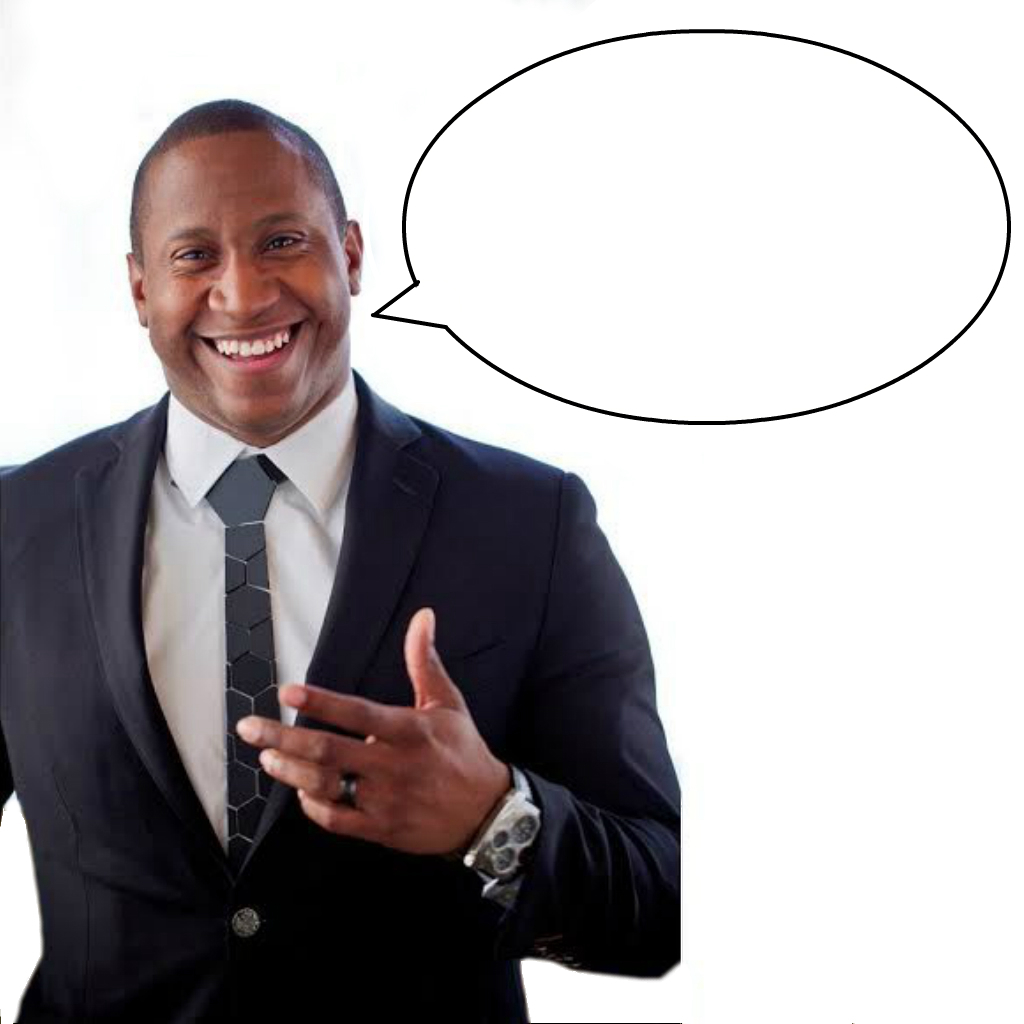
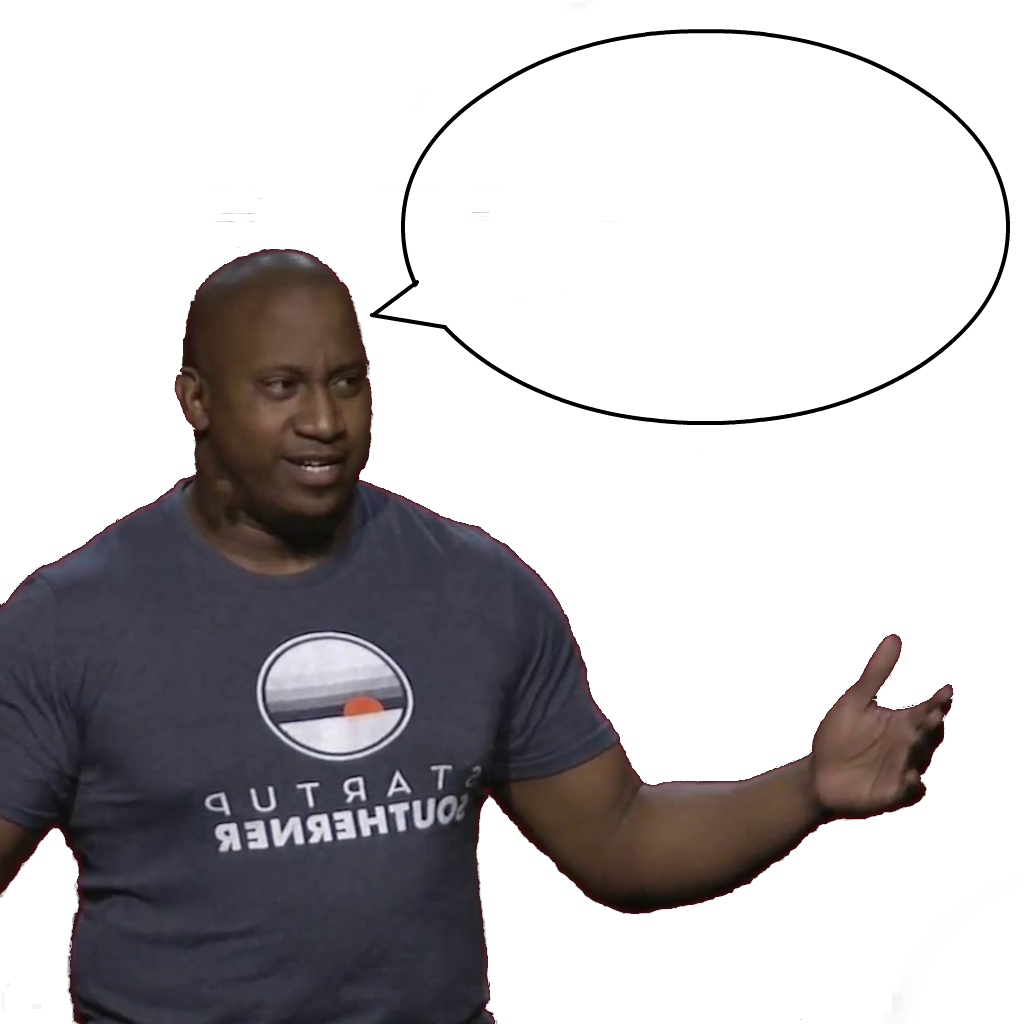
added two more pictures and image generator randomly selects one

diff --git a/app.js b/app.js
@@ -13,7 +13,8 @@ const sleep = (milliseconds) => {
 
 function jeromeSays(phrase){
   //if you are following along, create the following 2 images relative to this script:
-  let imgRaw = 'raw/jeromeSays.jpg'; //a 1024px x 1024px backgroound image
+  let rawImages = ['raw/jeromeSays.jpg','raw/musclesSays.jpg','raw/motivationSays.jpg']
+  let imgRaw = rawImages[Math.floor(Math.random() * rawImages.length)]; //a 1024px x 1024px backgroound image
 
   let imgActive = 'active/heSaidIt.jpg';
   let imgExported = 'export/heSaidIt.jpg';
